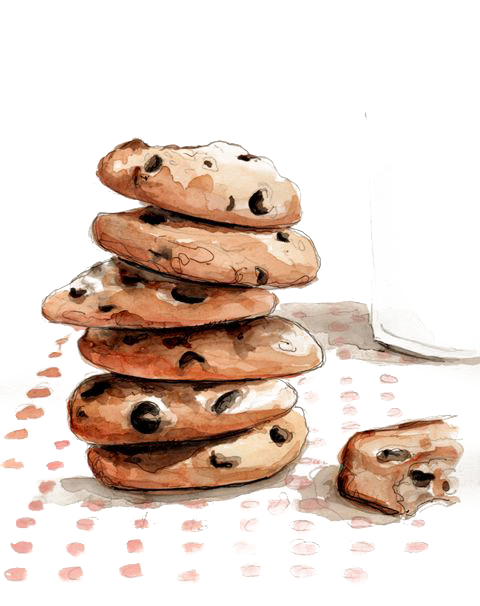
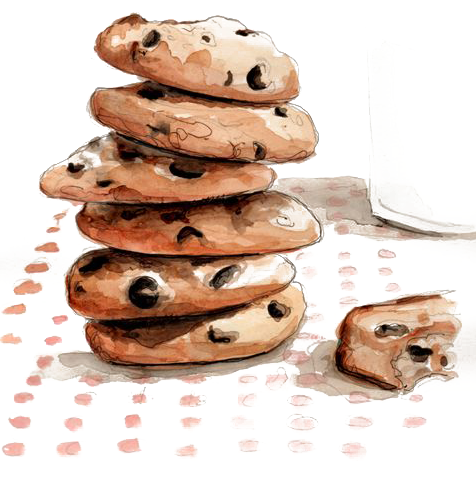
tile background image

diff --git a/assets/stylesheets/cookie_run.css b/assets/stylesheets/cookie_run.css
@@ -1,5 +1,5 @@
 .game-title {
-  margin-top: 25px;;
+  padding-top: 20px;;
   font-family: 'Ribeye Marrow';
   font-size: 32px;
   color: darkblue;
@@ -15,23 +15,24 @@
 body {
   background: white;
   background: url('../images/cookie-stack-sketch.png');
-  background-size: cover;
-  background-position: center;
+  background-size: auto;
+  background-position: bottom;
   background-attachment: fixed;
-  background-repeat: no-repeat;
+  background-repeat: repeat;
 }
 
 .canvas-container {
-  margin-top: 25px;
   display: flex;
   flex-direction: column;
   justify-content: center;
   align-items: center;
+  padding: 20px;
 }
 .game-instructions {
-  padding: 10px;
+  padding-bottom: 20px;
   font-family: "Ribeye Marrow";
   font-size: 22px;
+  font-style: italic;
   color: darkblue;
   justify-content: space-evenly;
 }

diff --git a/index.html b/index.html
@@ -14,11 +14,11 @@
     <header><h3 class="game-title">Cookie RuN</h3></header>
 
     <div class="canvas-container">
-      <canvas height="500" width="700" style="border:3px solid black" id="ctx"></canvas>
       <div class="game-instructions">
         <p>Eat all the cookies before they destroy you!</p>
         <p>Use Space to pause and Arrow keys to move.</p>
       </div>
+      <canvas height="500" width="700" style="border:3px solid black" id="ctx"></canvas>
     </div>
     <script type="text/javascript" src="src/game.js"></script>
 
